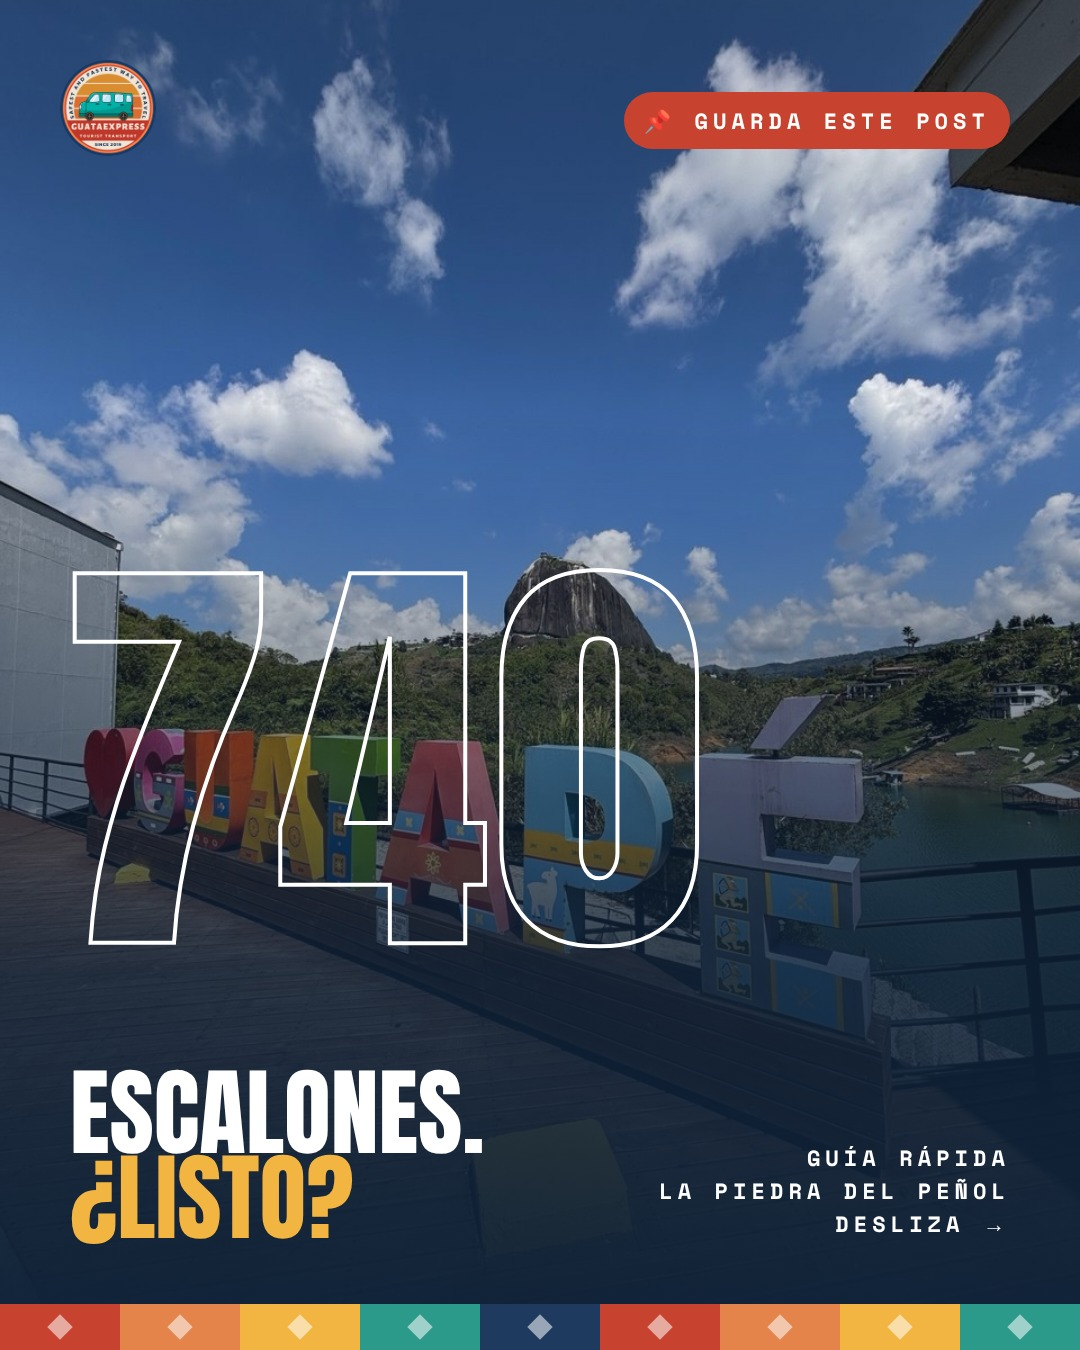
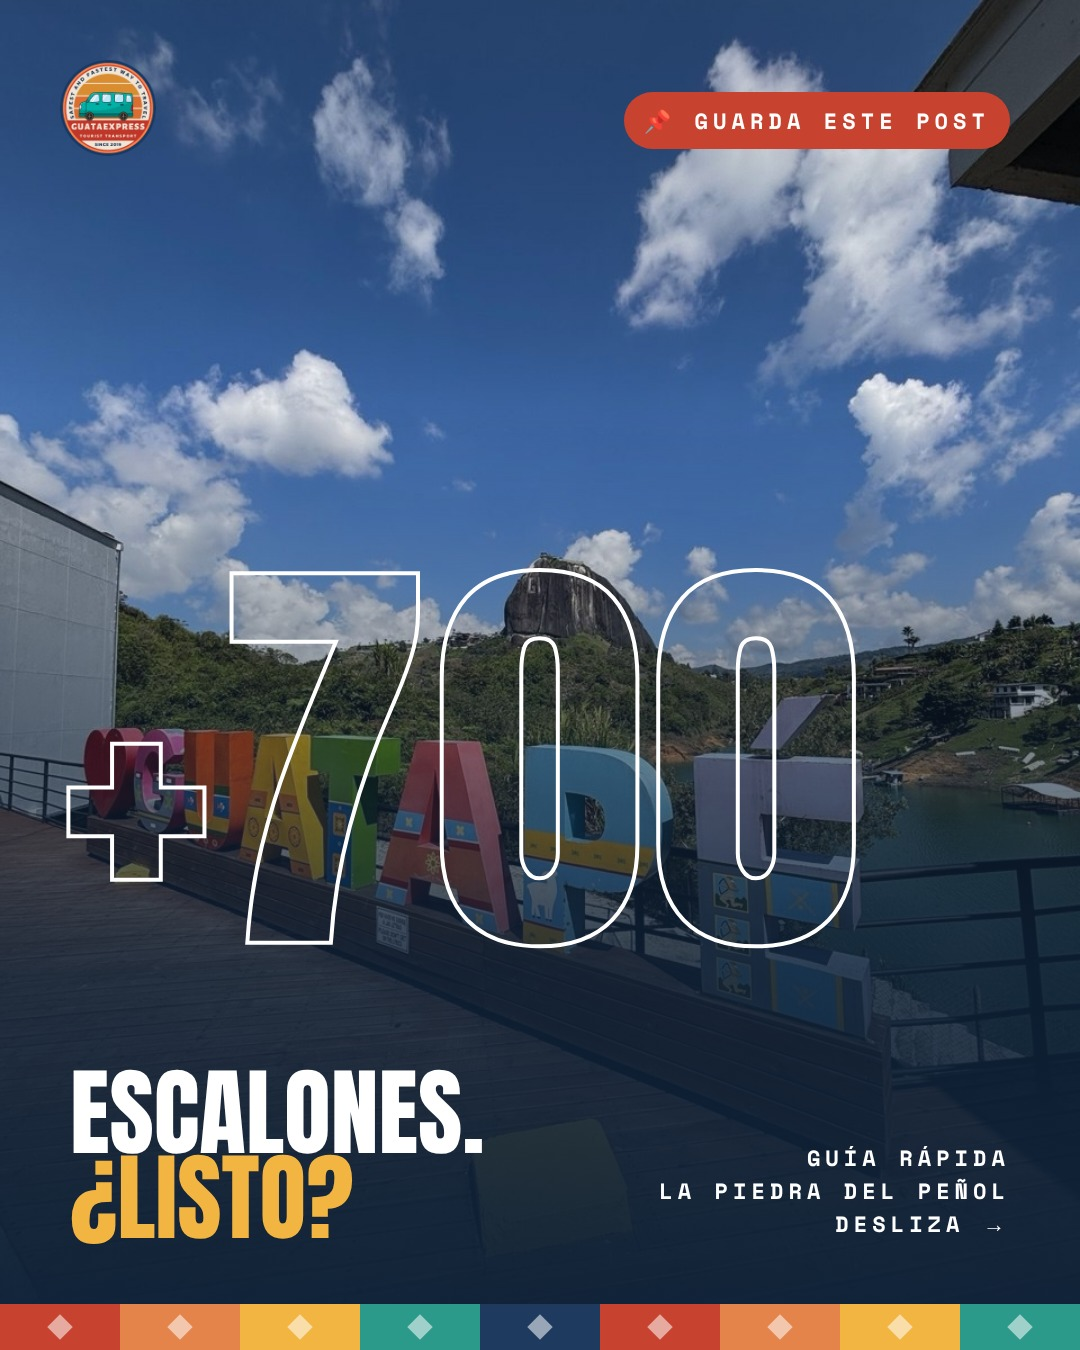
Ajustar post de El Peñol: +700 escalones y llegar a primera hora
Claude-Session: https://claude.ai/code/session_01LZ9SaBmjmVr4tj46LR92FB

diff --git a/semanas/2026-11-09/viernes.html b/semanas/2026-11-09/viernes.html
@@ -40,7 +40,7 @@ body{background:#888;font-family:Inter,sans-serif}
   <div class="bg"></div><div class="sh"></div>
   <img class="logo" src="../../logo/logo-circular.png" style="top:60px;left:60px">
   <div class="kick" style="position:absolute;top:92px;right:70px;color:#fff;background:var(--red);padding:12px 20px;border-radius:999px">📌 Guarda este post</div>
-  <div class="huge ant">740</div>
+  <div class="huge ant">+700</div>
   <div style="position:absolute;left:70px;right:70px;bottom:110px;color:#fff;display:flex;justify-content:space-between;align-items:flex-end">
     <div class="ant" style="font-size:96px">escalones.<br><span style="color:var(--sun)">¿Listo?</span></div>
     <div class="kick" style="text-align:right">Guía rápida<br>La Piedra del Peñol<br>Desliza →</div>
@@ -59,9 +59,9 @@ body{background:#888;font-family:Inter,sans-serif}
     <path d="M560 545 H1040" stroke="#0f2238" stroke-width="4" stroke-dasharray="4 10"/>
     <circle cx="645" cy="1235" r="12" fill="#fff"/><circle cx="855" cy="860" r="12" fill="#fff"/><circle cx="1045" cy="545" r="12" fill="#fff"/>
   </svg>
-  <div class="step" style="left:80px;top:1180px"><div class="n">0</div><div class="tx"><b>Llega temprano</b><span>7–9 AM: menos gente</span></div></div>
+  <div class="step" style="left:80px;top:1180px"><div class="n">0</div><div class="tx"><b>Llega temprano</b><span>A primera hora: menos gente</span></div></div>
   <div class="step" style="left:80px;top:805px"><div class="n">½</div><div class="tx"><b>A tu ritmo</b><span>Pausas, agua y fotos</span></div></div>
-  <div class="step" style="left:80px;top:490px"><div class="n">740</div><div class="tx"><b>¡Cima!</b><span>220 m sobre el embalse</span></div></div>
+  <div class="step" style="left:80px;top:490px"><div class="n">+700</div><div class="tx"><b>¡Cima!</b><span>220 m sobre el embalse</span></div></div>
 </section>
 
 <section class="s" id="s3">
